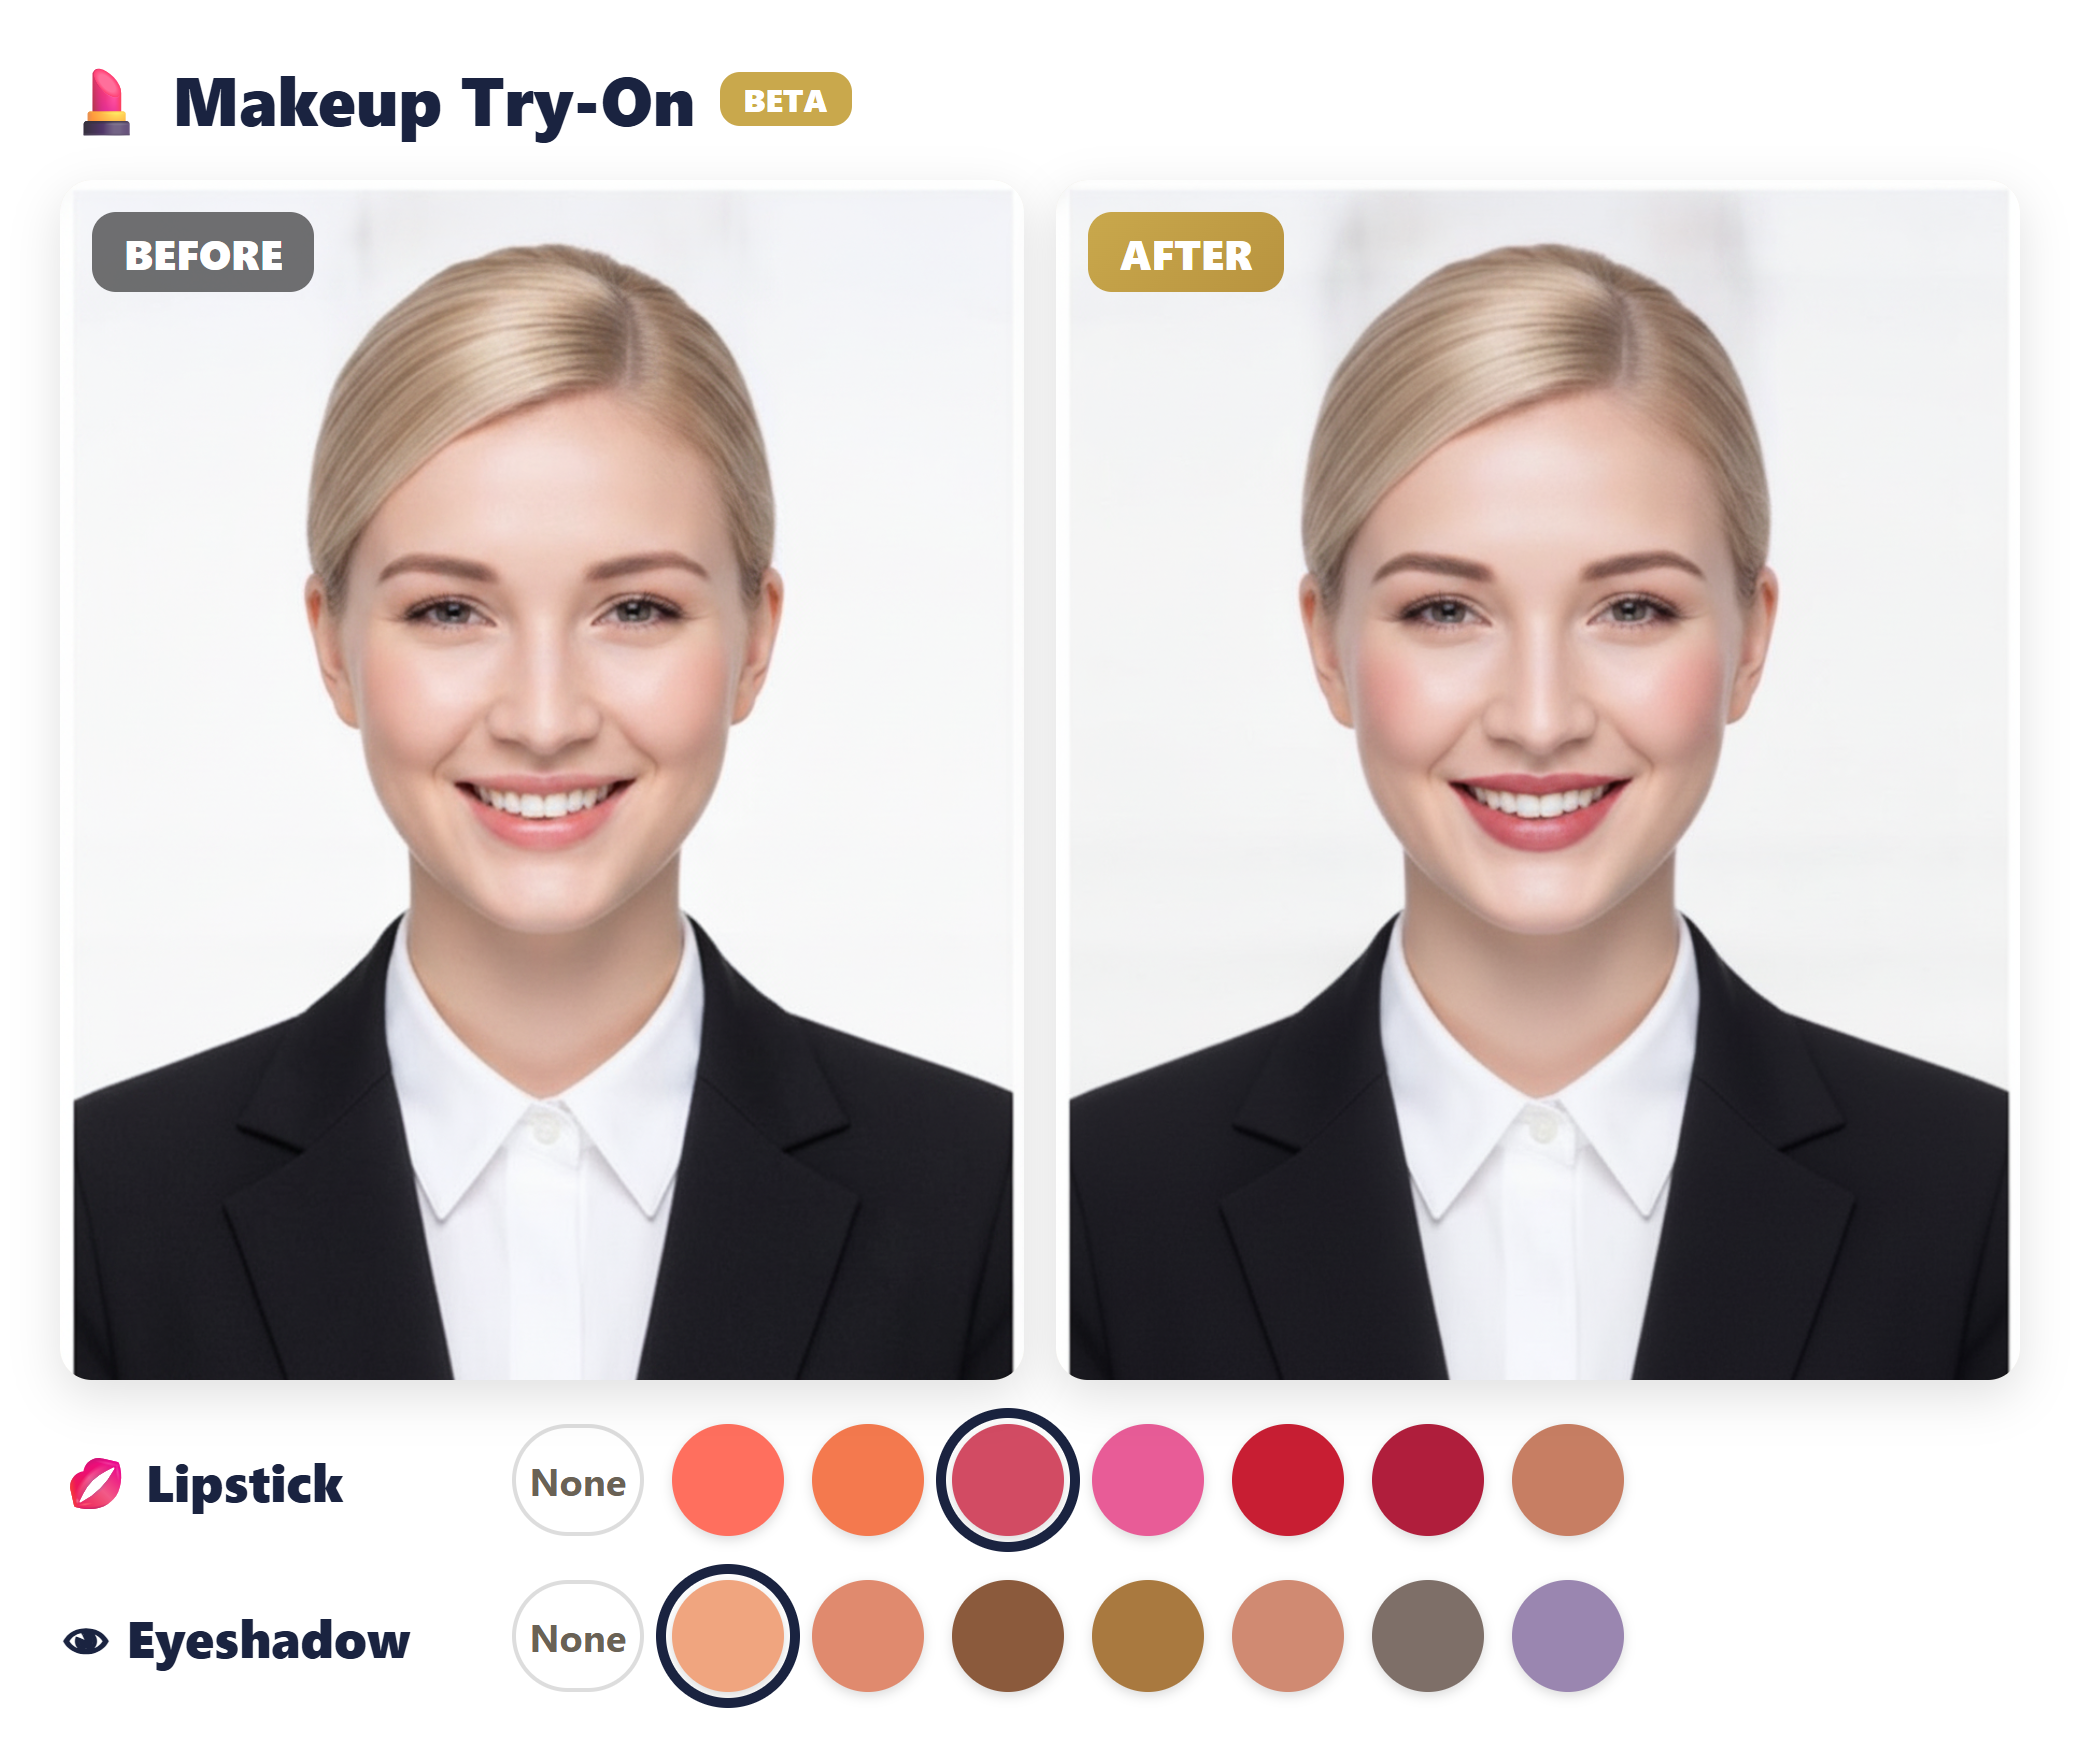
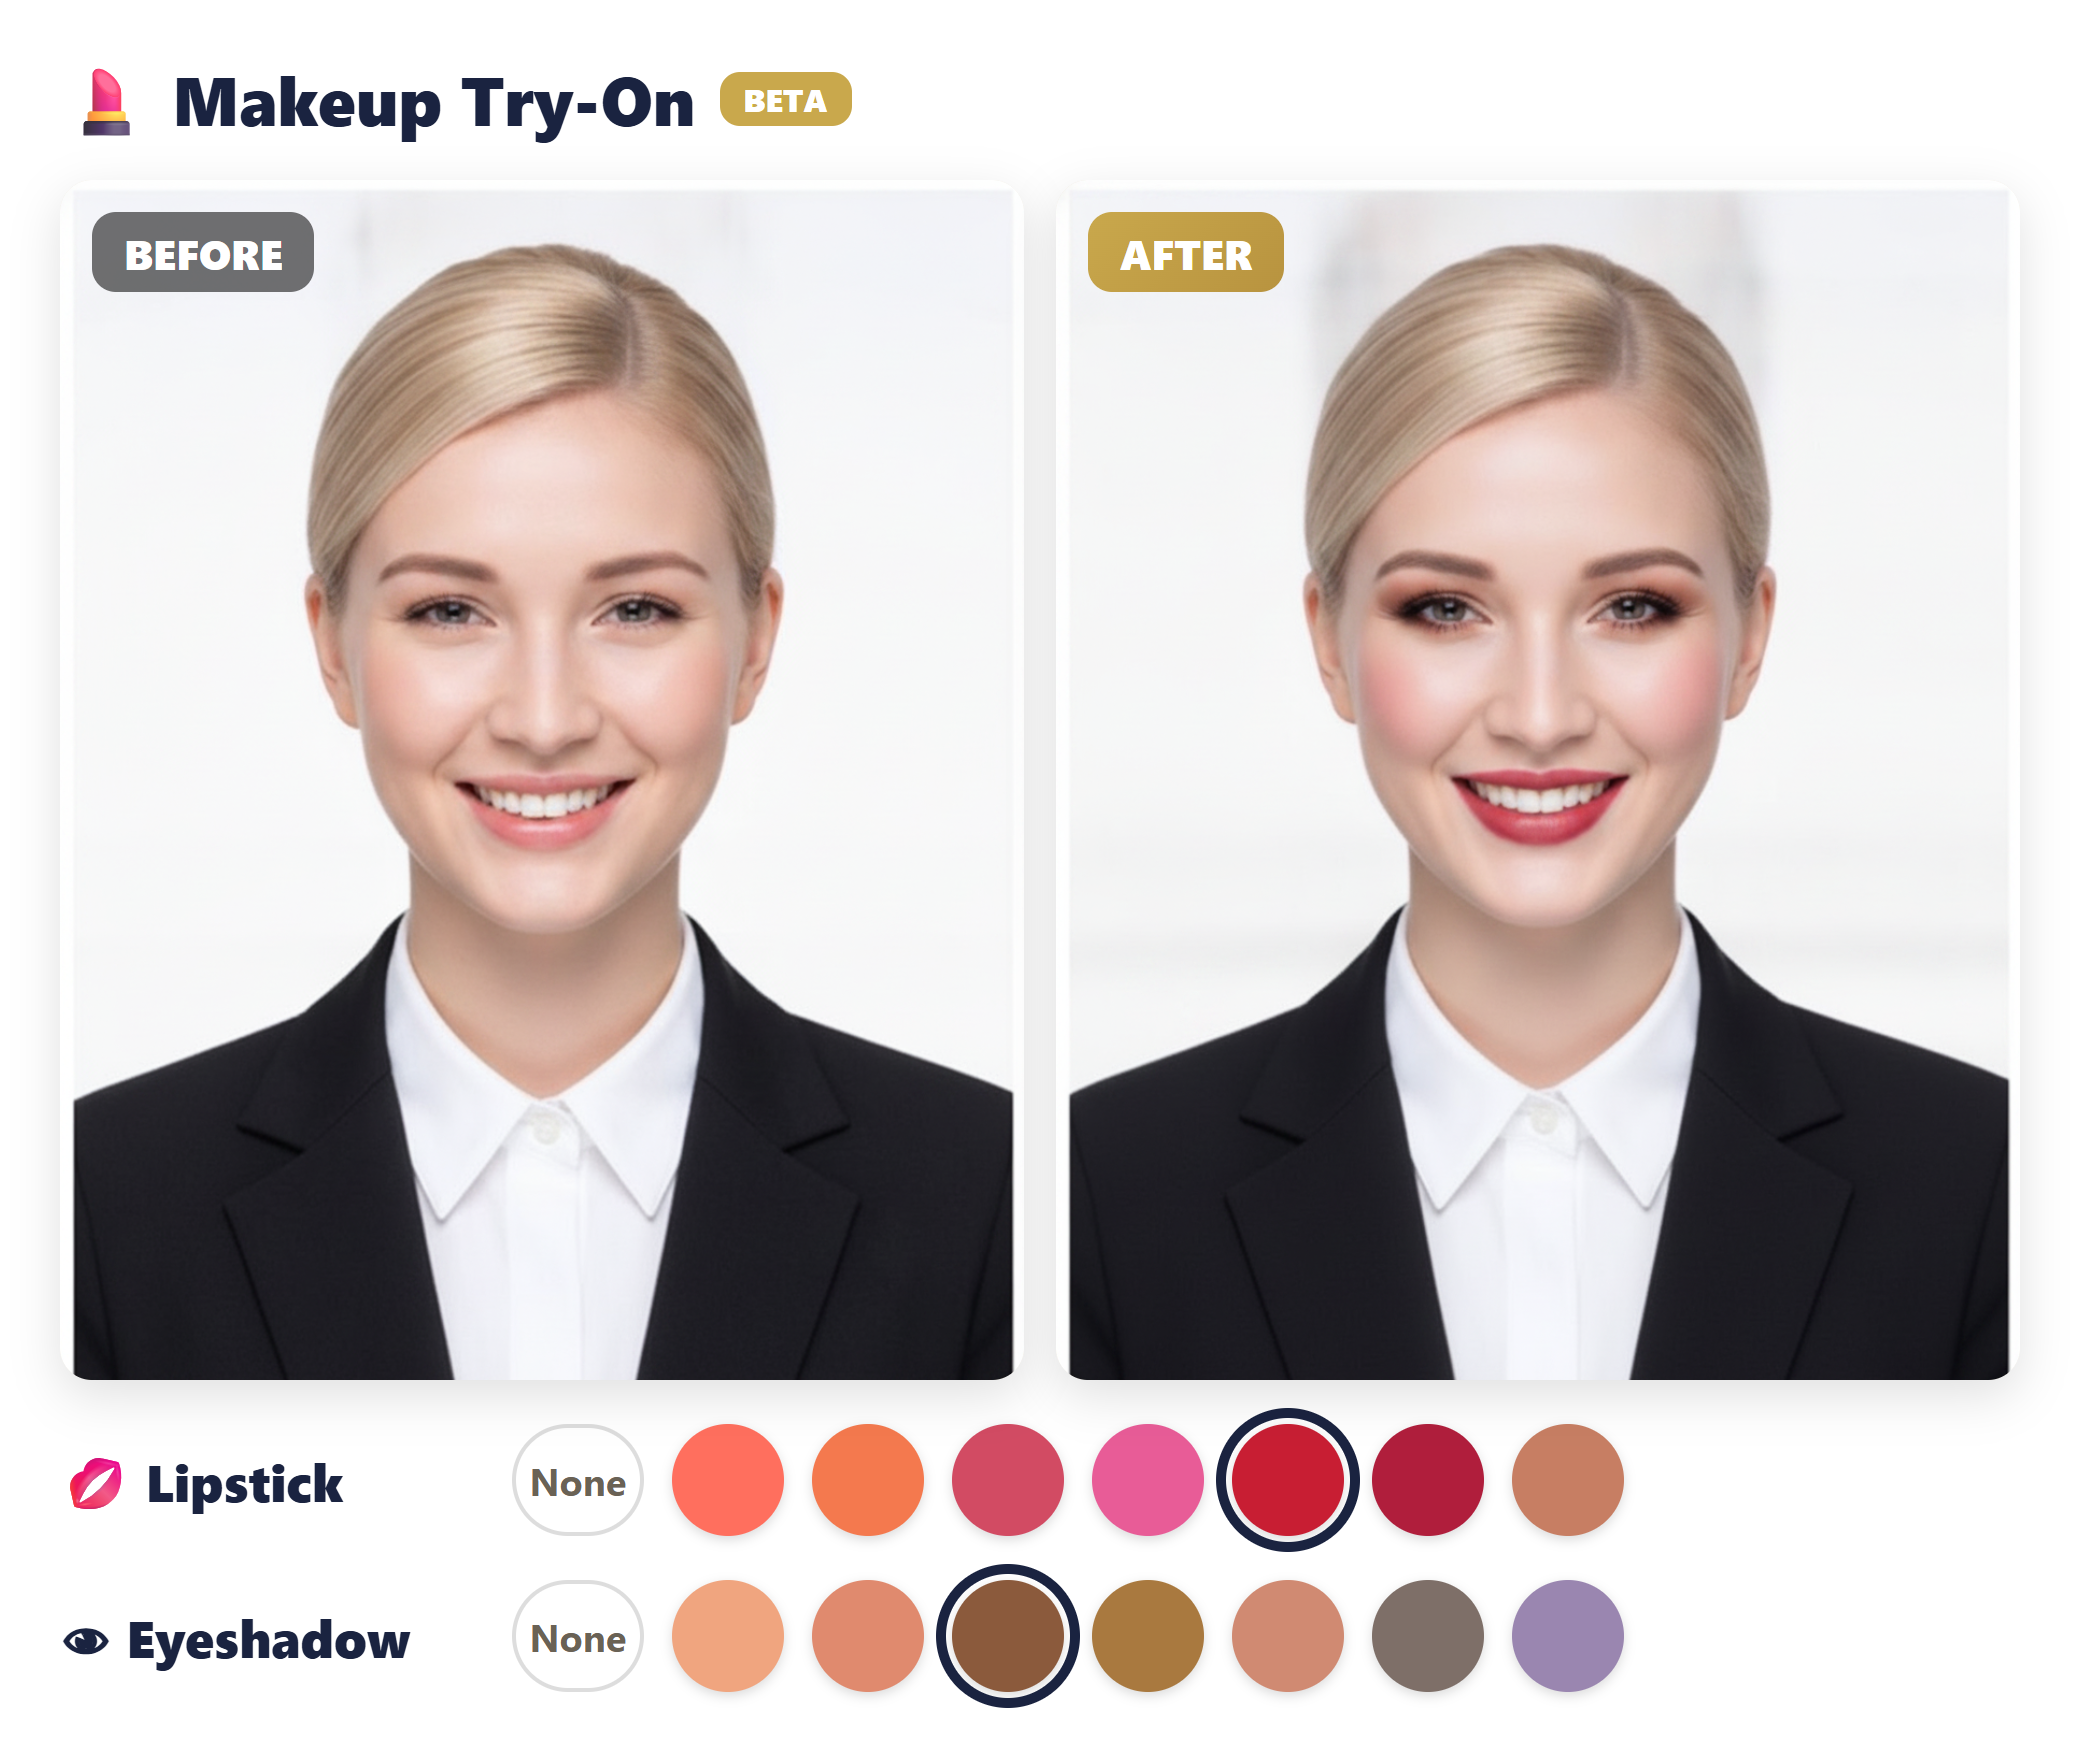
메이크업 애프터 사진 화장 강화(확실한 전/후 대비)
- 애프터 풀페이스 메이크업을 더 확실하게: defined 로즈-레드 립 + 따뜻한 브라운 아이섀도(양눈 대칭)+소프트 라이너+블러셔. 서양인에 어울리는 또렷한 룩, 멍든 느낌 없이 우아하게.
- 썸네일 재캡처 + 캐시버스트 v4.

diff --git a/practice-foreign-en.html b/practice-foreign-en.html
@@ -213,7 +213,7 @@ footer{padding:50px 5%;background:var(--navy);color:rgba(255,255,255,0.6);text-a
   </a>
 
   <a class="hub-card" href="image-check-en.html?photo=images/cv-face-western.png#makeupCard">
-    <div class="hub-vis" style="padding:8px;background:#F7EFDD;"><img src="images/shot-makeup-en.png?v=3" style="width:100%;height:100%;object-fit:contain;border-radius:8px;display:block;" alt="Makeup try-on — lip and eyeshadow before/after"></div>
+    <div class="hub-vis" style="padding:8px;background:#F7EFDD;"><img src="images/shot-makeup-en.png?v=4" style="width:100%;height:100%;object-fit:contain;border-radius:8px;display:block;" alt="Makeup try-on — lip and eyeshadow before/after"></div>
     <div class="hub-num">Step 02</div>
     <div class="hub-title">Makeup Try-On · Find Your Colors</div>
     <div class="hub-desc">Apply lipstick, eyeshadow and eyeliner to your own face and find the shades that suit you. Compare before and after instantly.</div>
